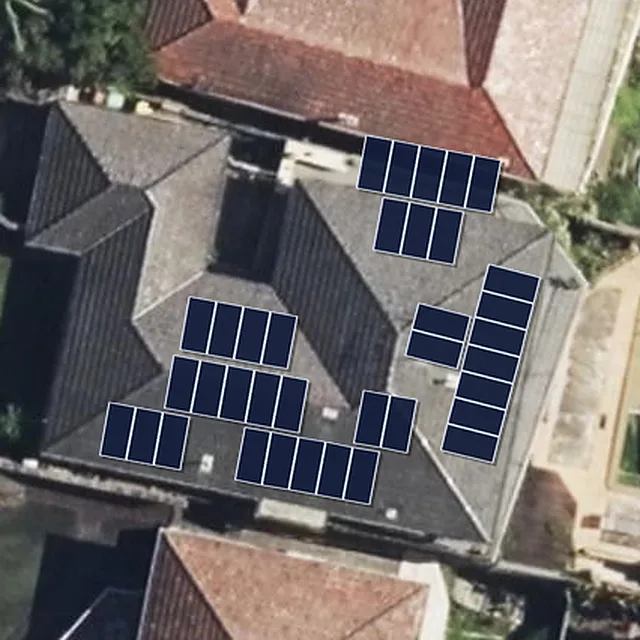
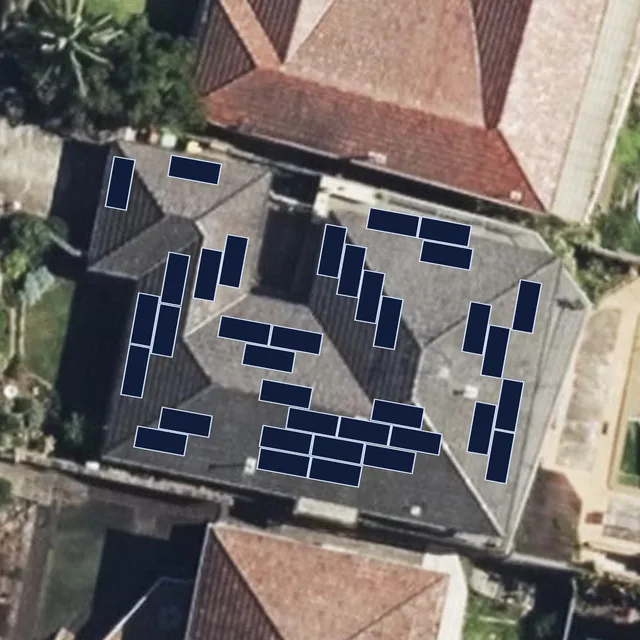
Site Portfolio: Platform Designer layouts for Sans Souci, Kyle Bay, Blakehurst and Bangor (#124)
Each drawn at the card's panel count with the system's datasheet panel size.
Other five cards keep their OpenSolar layouts (owner's choice). Descriptions unchanged.

Claude-Session: https://claude.ai/code/session_019AH8m7haeseMVUkAK3sNQV

diff --git a/src/utils/constant.tsx b/src/utils/constant.tsx
@@ -3139,7 +3139,7 @@ export const ABOUT_US_PAGE = {
     subtitle:
       "Real EasyLink systems across Sydney, with the projected savings from each customer's proposal.",
     footnote:
-      "Savings are projections from each customer's proposal (bill savings plus export credits over the system's life), not metered results. Panel layouts are drawn from each system's OpenSolar design (Blakehurst from the EasyLink Platform Designer) on the latest aerial photo. Aerial imagery © NSW Spatial Services, Department of Customer Service (CC BY 4.0).",
+      "Savings are projections from each customer's proposal (bill savings plus export credits over the system's life), not metered results. Panel layouts are drawn on the latest aerial photo: Sans Souci, Kyle Bay, Blakehurst and Bangor from the EasyLink Platform Designer, the others from each system's OpenSolar design. Aerial imagery © NSW Spatial Services, Department of Customer Service (CC BY 4.0).",
     items: [
       { id: "sans-souci", status: "Installed", client: "George", suburb: "Sans Souci", imageSrc: "/images/about-us/portfolio/sans-souci.webp", systemKw: 17.22, panels: "28 × Canadian Solar 615 W", batteryKwh: 40.3, batteryBrand: "SigEnergy", annualKwh: 25818, annualSavings: 3896, payback: "4 years", lifetimeSavings: 89268 },
       { id: "kyle-bay", status: "Installed", client: "Shariff", suburb: "Kyle Bay", imageSrc: "/images/about-us/portfolio/kyle-bay.webp", systemKw: 21.06, panels: "36 × Trina 585 W", batteryKwh: 24.2, annualKwh: 29726, annualSavings: 2531, payback: "4 years 9 months", lifetimeSavings: 58200 },
